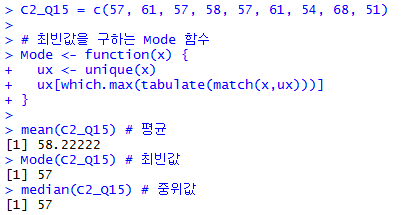
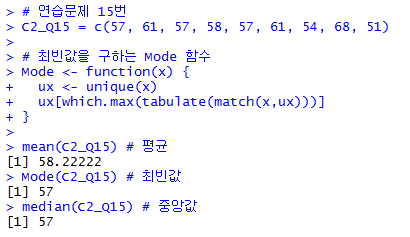
update chapter2

Changed region(s): [[0.0, 0.0, 0.804, 0.9767], [0.4764, 0.0, 0.9826, 0.1395], [0.0596, 0.4465, 0.0893, 0.5302]]

diff --git a/통계학개론/제2장 데이터 수치 요약_연습문제.md b/통계학개론/제2장 데이터 수치 요약_연습문제.md
@@ -55,15 +55,15 @@ median(C2_Q16) # 중앙값
 
 <풀이>
 ``` R
-C2_Q17 <- read.table("./data/Ch2_Q17.csv", 
-                     header=TRUE, sep=",", na.strings="NA", dec=".", strip.white=TRUE)
+C2_Q17 <- read.table("./data/Ch2_Q17.csv", header=TRUE, 
+                      sep=",", na.strings="NA", dec=".", strip.white=TRUE)
 
-mean(C2_Q17$A)
-median(C2_Q17$A)
-mean(C2_Q17$B)
-median(C2_Q17$B)
-mean(C2_Q17$C)
-median(C2_Q17$C)
+mean(C2_Q17$A) # A 평균
+median(C2_Q17$A) # A 중앙값
+mean(C2_Q17$B) # B 평균
+median(C2_Q17$B) # B 중앙값
+mean(C2_Q17$C) # C 평균
+median(C2_Q17$C) # C 중앙값
 ```
 
 <결과>
@@ -77,3 +77,55 @@ median(C2_Q17$C)
 
 (1) 평균과 표준편차를 구하라.
 (2) 중앙값과 범위를 구하라
+
+<풀이>
+``` R
+C2_Q18 = c(0.062, 0.071, 0.067, 0.068, 0.066, 0.062, 0.068, 0.067, 0.060, 0.065)
+
+mean(C2_Q18) # 평균
+sd(C2_Q18) # 표준편차
+median(C2_Q18) # 중앙값
+max(C2_Q18)-min(C2_Q18) # 범위
+```
+
+<결과>
+
+<img src="./img/Ch2-Q18.png">
+
+#### 19. 다음 두 명의 볼링선수가 10회 게임을 하여 그 점수를 기록한 것이다.
+
+| 선수 A | 선수 B |
+|:------:|:------:|
+|198|196|
+|119|159|
+|174|162|
+|235|178|
+|134|188|
+|192|169|
+|124|173|
+|241|183|
+|158|177|
+|176|152|
+
+(1) 각 선수의 점수에 대한 평균과 중앙값을 구하라.
+(2) 각 선수의 점수에 대한 표준편차를 구하고 상자그림을 그려라.
+(3) 누가 더 우수한 선수라고 판단되는가? 그 이유는?
+
+<풀이>
+``` R
+C2_Q19 <- read.table("./data/Ch2_Q19.csv", 
+                     header=TRUE, sep=",", na.strings="NA", dec=".", strip.white=TRUE)
+
+summary(C2_Q19$A) # A 점수 분석
+summary(C2_Q19$B) # B 점수 분석
+sd(C2_Q19$A) # A 표준편차
+sd(C2_Q19$B) # B 표준편차
+boxplot(C2_Q19) # 상자그림
+```
+
+<결과>
+
+<img src="./img/Ch2-Q19.png">
+<img src="./img/Ch2-Q19-2.png">
+
+
